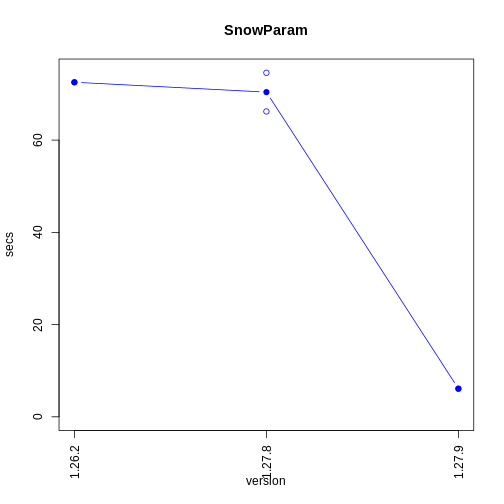
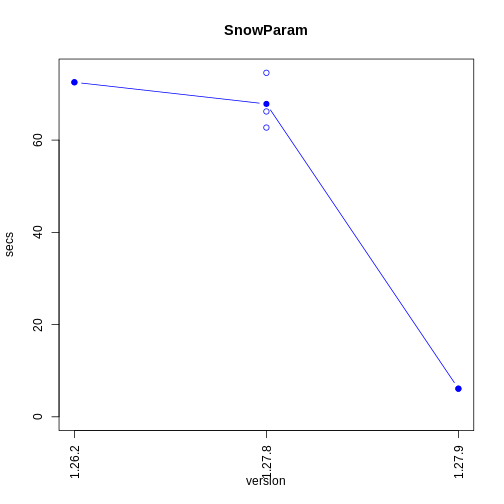
Update README.md and results

diff --git a/README.md b/README.md
@@ -13,12 +13,12 @@ where n=100000. All parallel functions use its default setting. Below is the tab
 
 |   |source             |package      |backend        |version |call      | time(sec)| performance relative to baseline(%)|
 |:--|:------------------|:------------|:--------------|:-------|:---------|---------:|-----------------------------------:|
-|1  |r-base             |parallel     |socket         |4.1.1   |parLapply |     0.322|                              100.00|
-|5  |r-base             |foreach      |doParallel     |1.0.16  |foreach   |    47.464|                                0.68|
-|6  |r-base             |base         |NA             |4.1.1   |lapply    |     0.344|                               93.60|
-|2  |BioConductor-devel |BiocParallel |SerialParam    |1.27.8  |bplapply  |   112.407|                                0.29|
-|3  |BioConductor-devel |BiocParallel |SnowParam      |1.27.8  |bplapply  |    68.526|                                0.47|
-|4  |BioConductor-devel |BiocParallel |MulticoreParam |1.27.8  |bplapply  |    75.295|                                0.43|
+|1  |r-base             |parallel     |socket         |4.1.1   |parLapply |     0.367|                              100.00|
+|5  |r-base             |foreach      |doParallel     |1.0.16  |foreach   |    47.892|                                0.77|
+|6  |r-base             |base         |NA             |4.1.1   |lapply    |     0.350|                              104.86|
+|2  |BioConductor-devel |BiocParallel |SerialParam    |1.27.8  |bplapply  |   121.799|                                0.30|
+|3  |BioConductor-devel |BiocParallel |SnowParam      |1.27.8  |bplapply  |    62.852|                                0.58|
+|4  |BioConductor-devel |BiocParallel |MulticoreParam |1.27.8  |bplapply  |    72.514|                                0.51|
 
 
 # CPU intensive benchmark
@@ -39,12 +39,12 @@ where n=100. All parallel functions use its default setting.
 
 |   |source             |package      |backend        |version |call      | time(sec)| performance relative to baseline(%)|
 |:--|:------------------|:------------|:--------------|:-------|:---------|---------:|-----------------------------------:|
-|1  |r-base             |parallel     |socket         |4.1.1   |parLapply |    86.381|                              100.00|
-|5  |r-base             |foreach      |doParallel     |1.0.16  |foreach   |    86.194|                              100.22|
-|6  |r-base             |base         |NA             |4.1.1   |lapply    |   168.683|                               51.21|
-|2  |BioConductor-devel |BiocParallel |SerialParam    |1.27.8  |bplapply  |   213.799|                               40.40|
-|3  |BioConductor-devel |BiocParallel |SnowParam      |1.27.8  |bplapply  |   110.861|                               77.92|
-|4  |BioConductor-devel |BiocParallel |MulticoreParam |1.27.8  |bplapply  |   110.863|                               77.92|
+|1  |r-base             |parallel     |socket         |4.1.1   |parLapply |    83.835|                              100.00|
+|5  |r-base             |foreach      |doParallel     |1.0.16  |foreach   |    83.291|                              100.65|
+|6  |r-base             |base         |NA             |4.1.1   |lapply    |   160.675|                               52.18|
+|2  |BioConductor-devel |BiocParallel |SerialParam    |1.27.8  |bplapply  |   208.506|                               40.21|
+|3  |BioConductor-devel |BiocParallel |SnowParam      |1.27.8  |bplapply  |   107.651|                               77.88|
+|4  |BioConductor-devel |BiocParallel |MulticoreParam |1.27.8  |bplapply  |   107.331|                               78.11|
 
 # BiocParallel benchmark history
 ## Overhead
